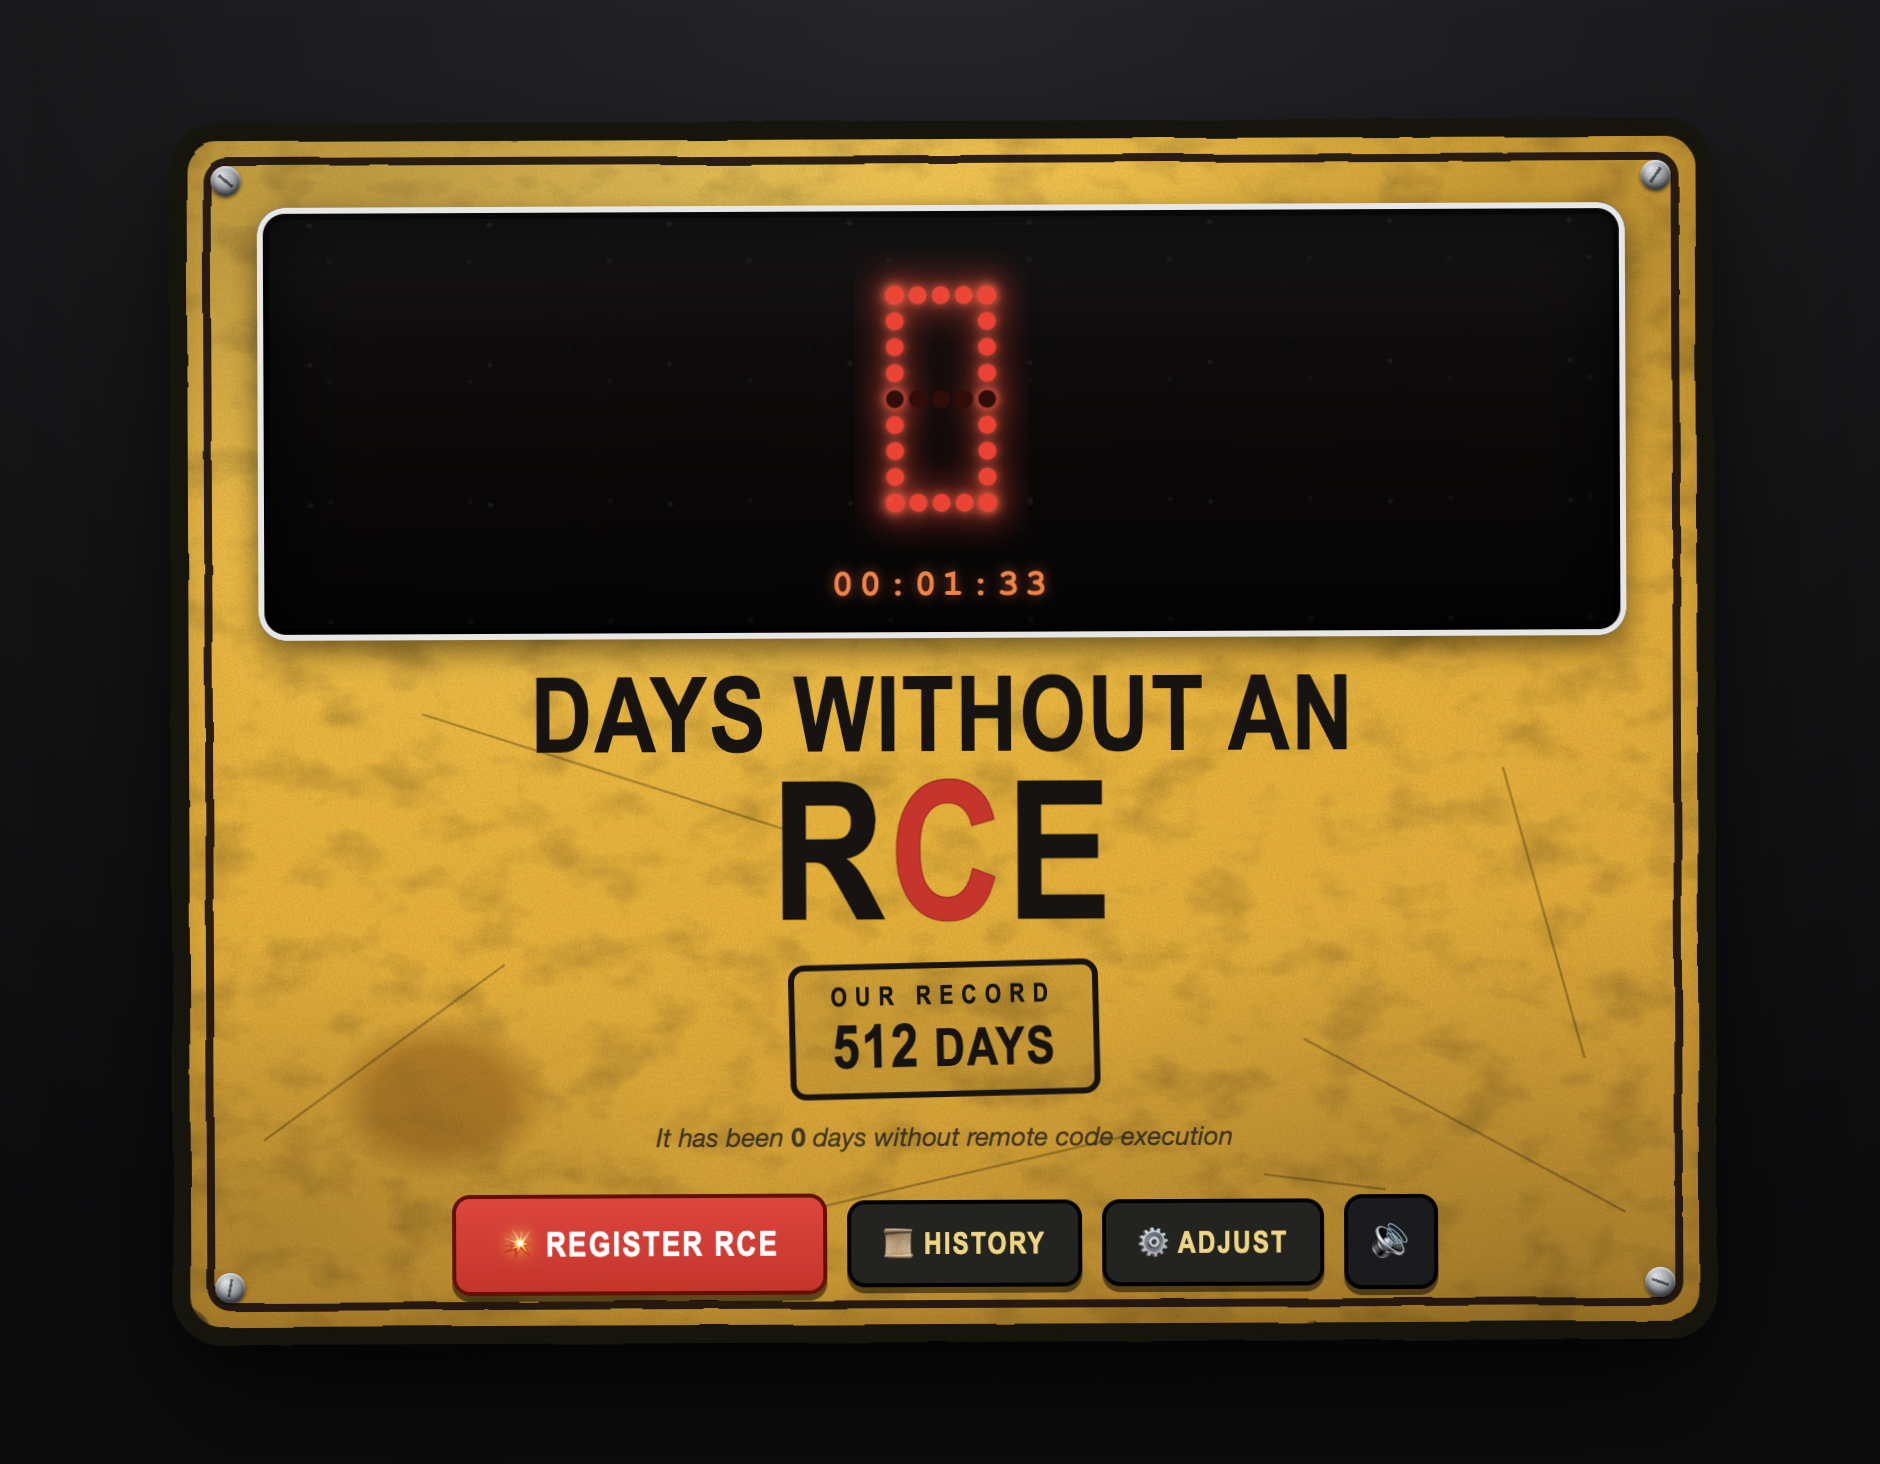
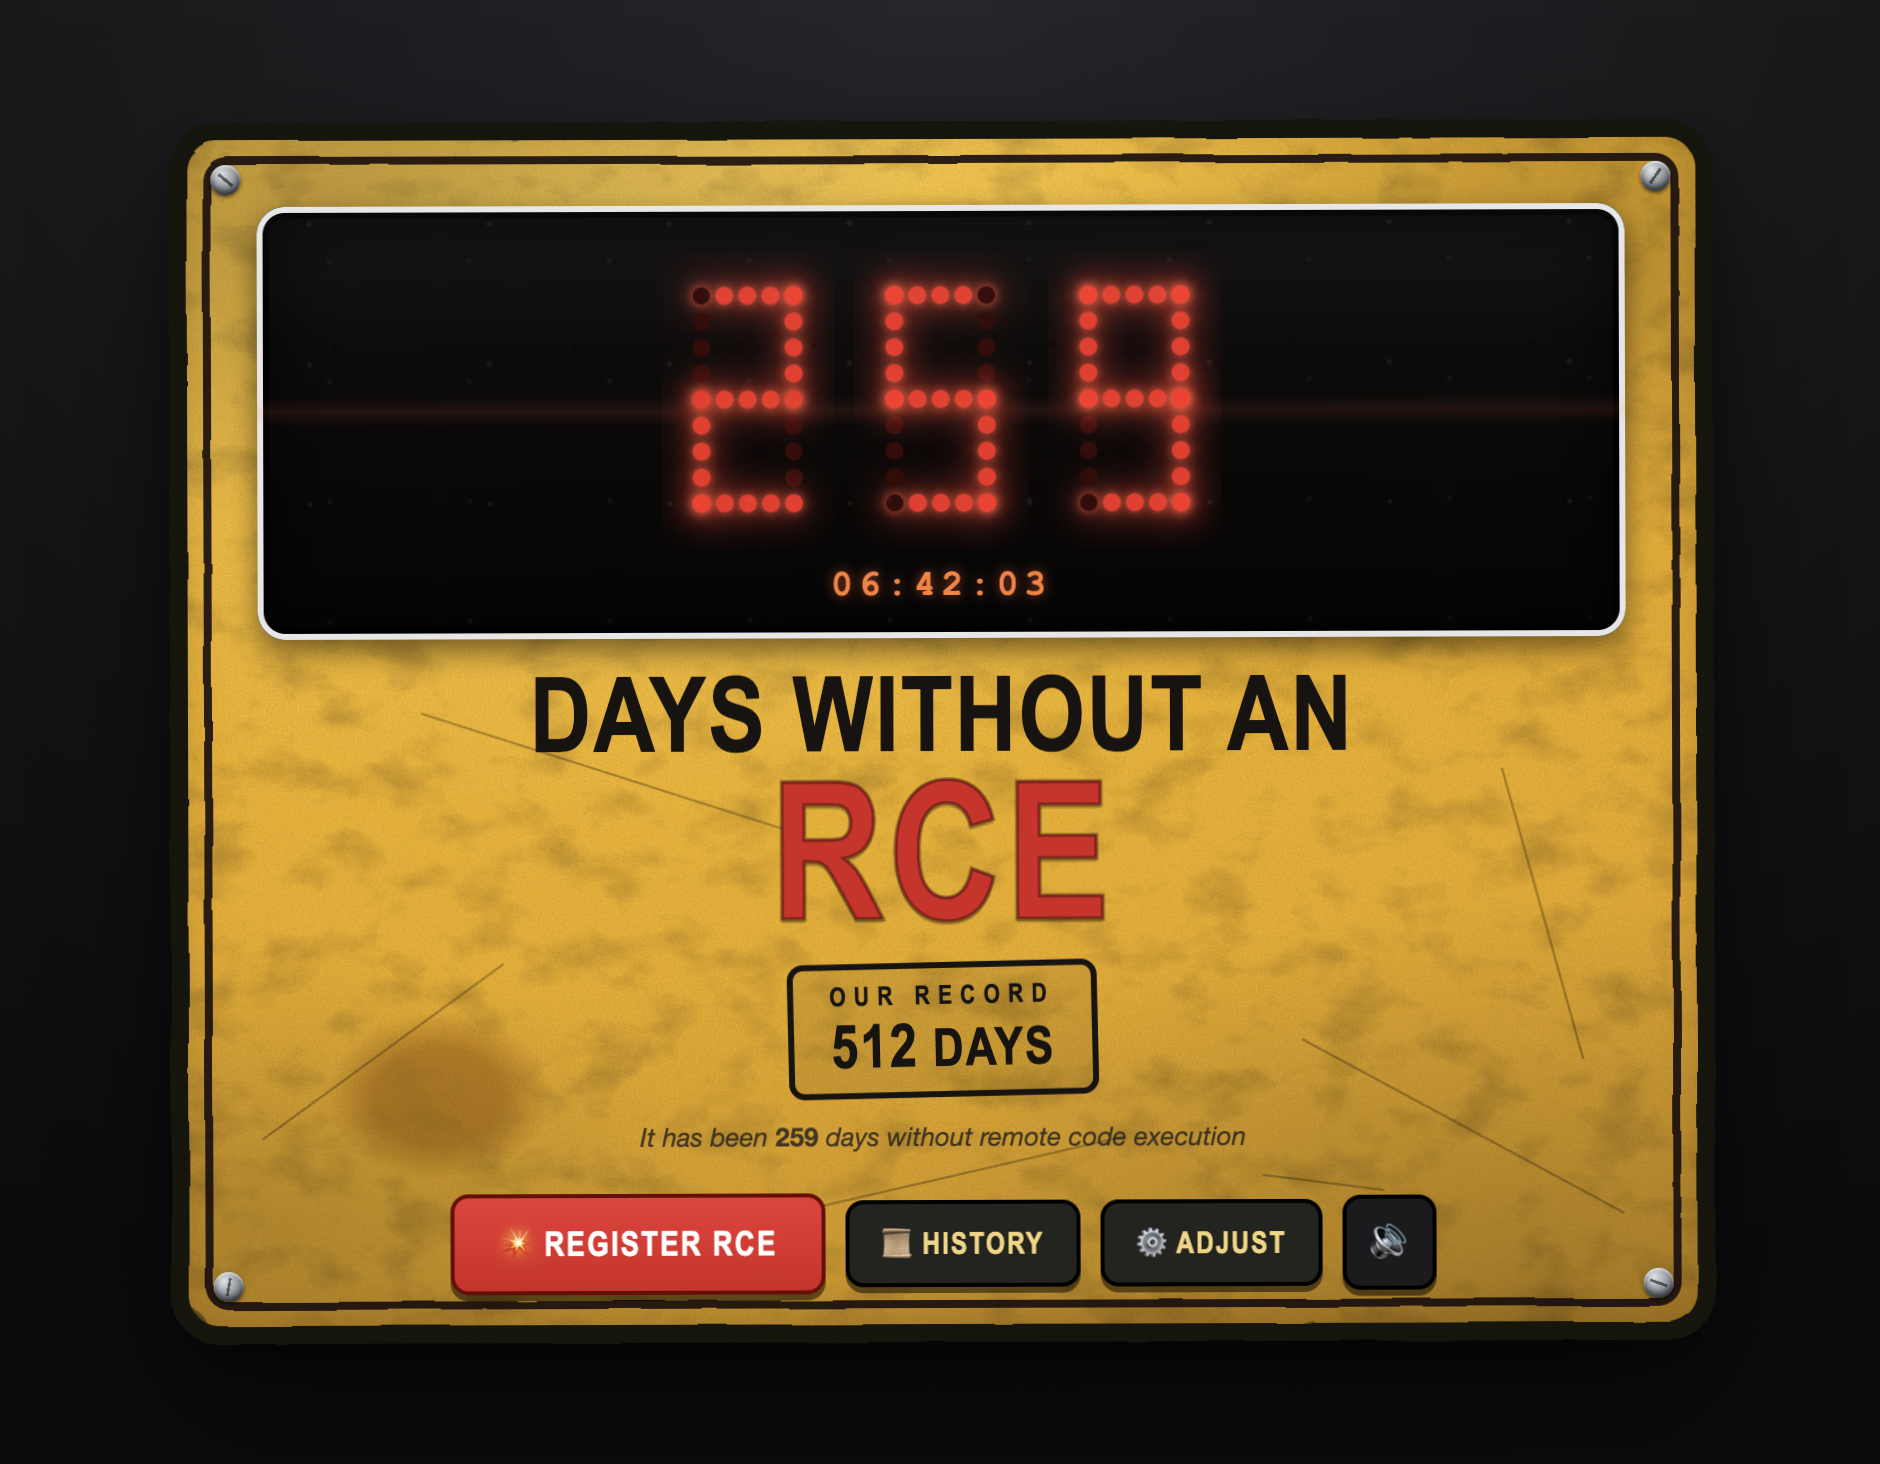
style: RCE inteiro em vermelho + previews atualizadas
- Título: 'RCE' agora todo vermelho (palavra de perigo) com contorno escuro,
  no lugar de só a letra C destacada.
- Previews EN/PT regeneradas com o novo visual.

diff --git a/renderer/styles.css b/renderer/styles.css
@@ -378,9 +378,10 @@ body {
   display: block;
   font-size: clamp(52px, 12vw, 96px);
   letter-spacing: 2px;
-  -webkit-text-stroke: 1px rgba(0,0,0,.15);
+  color: var(--danger);
+  -webkit-text-stroke: 2px rgba(0,0,0,.35);
+  text-shadow: 0 2px 0 rgba(0,0,0,.18);
 }
-.headline .l2 .c { color: var(--danger); }
 
 .record {
   margin: 12px auto 4px;